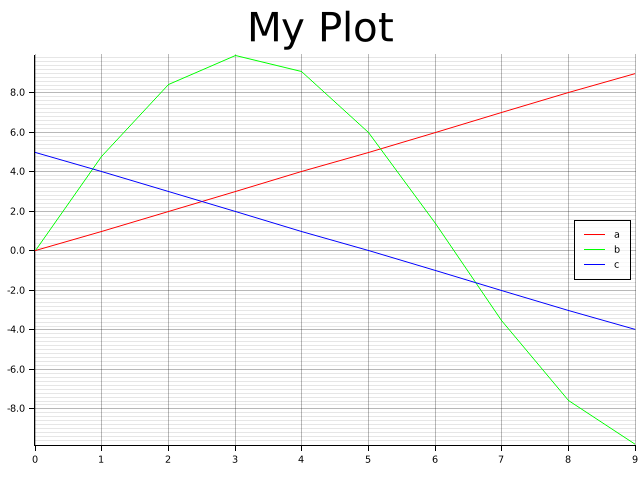
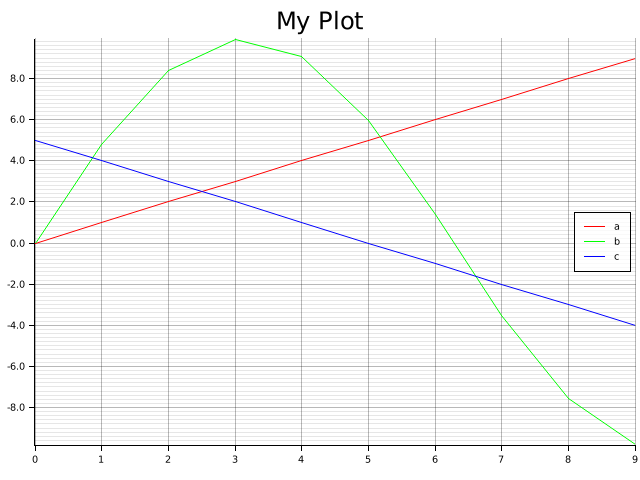
add options

diff --git a/src/lib.rs b/src/lib.rs
@@ -1,45 +1,66 @@
+//! This crate provides a convenient macro to quickly plot variables.
+
+#[deny(unsafe_code)]
+
 /// This macro is used to quickly generate plots for a list of variables.
 /// All types that implement `num_traits::cast::ToPrimitive` can be plotted.
-/// 
+///
 /// The macro takes a list of variables.
-/// 
+///
 /// ```rust
 /// debug_plotter::plot(a, b, c);
 /// ```
-/// 
-/// Optionally, you can provide a name for the plot.
+///
+/// Optionally, you can provide a caption and other options for the plot
+/// after a semicolon.
 /// If no name is provided, the name defaults to the file
 /// and the line number of where the macro was called.
-/// 
+///
 /// ```rust
-/// debug_plotter::plot("Plot Name"; a, b, c);
+/// debug_plotter::plot(a, b, c; caption = "My Caption");
 /// ```
+/// 
+/// The following table lists all available options.
+/// 
+/// |Identifier|Example Value|Description|
+/// |---|---|---|
+/// |`caption`|`"caption"`|Sets the caption of the plot.|
+/// |`size`|`(400, 300)`|Sets the size of the resulting image.|
+/// |`x_desc`|`"x description"`|Sets the description of the x axis.|
+/// |`y_desc`|`"y description"`|Sets the description of the y axis.|
 /// 
 /// When running in release mode, no plots are generated.
 /// To disable compilation of dependencies in release mode,
 /// pass `--no-default-features` to this crate.
 #[macro_export]
 macro_rules! plot {
-    ($($name:expr;)? $($variable:ident),*) => {
+    ( $($variable:ident),* $(,)? $( ; $($key:ident = $value:expr),* $(,)? )?) => {
         #[cfg(debug_assertions)]
         #[cfg(feature = "debug")]
         {
             use once_cell::unsync::Lazy;
             use std::cell::RefCell;
-            use $crate::Plottable;
+            use $crate::{Plottable, Plot, Options};
 
             thread_local! {
-                static PLOT: Lazy<RefCell<$crate::Plot>> = Lazy::new(|| {
-                    let mut name: Option<String> = None;
-                    $(
-                        name = Some(format!("{}", $name));
-                    )?
-                    RefCell::new($crate::Plot::new([$(stringify!($variable)),*], (file!(), line!()), name))
+                static PLOT: Lazy<RefCell<Plot>> = Lazy::new(|| {
+                    let options = Options {
+                        $($(
+                            $key: Some($value.into()),
+                        )*)?
+                        ..Default::default()
+                    };
+
+                    RefCell::new(Plot::new(
+                        [$(stringify!($variable)),*],
+                        (file!(), line!()),
+                        options
+                    ))
                 });
             }
             PLOT.with(|plot| {
                 plot.borrow_mut().insert([$($variable.to_plot_type()),*]);
-            })
+            });
         }
     };
 }
@@ -52,7 +73,7 @@ mod debug {
     use num_traits::cast::ToPrimitive;
     use plotters::prelude::*;
 
-    pub type PlotType = f64;
+    type PlotType = f64;
 
     pub trait Plottable {
         fn to_plot_type(self) -> PlotType;
@@ -74,20 +95,20 @@ mod debug {
         values: Vec<Vec<PlotType>>,
         names: Vec<Name>,
         location: Location,
-        name: Option<String>,
+        options: Options,
     }
 
     impl Plot {
         pub fn new<const N: usize>(
             names: [&'static str; N],
             location: Location,
-            name: Option<String>,
+            options: Options,
         ) -> Plot {
             Plot {
                 values: vec![Vec::new(); N],
                 names: names.to_vec(),
                 location,
-                name,
+                options,
             }
         }
 
@@ -129,23 +150,38 @@ mod debug {
         // Generates and saves the plot as PNG.
         fn plot(&self) -> Result<(), Box<dyn std::error::Error>> {
             let default_caption = &format!("{}:{}", self.location.0, self.location.1);
-            let caption = self.name.as_ref().unwrap_or(default_caption);
+            let caption = self.options.caption.as_ref().unwrap_or(default_caption);
             let path = format!("plots/{}.png", caption.replace("/", "-").replace(" ", "_"));
             let path = std::path::Path::new(&path);
             println!("Saving plot \"{}\" to {:?}", caption, path);
             std::fs::create_dir_all(&path.parent().unwrap()).unwrap();
 
-            let root = BitMapBackend::new(&path, (640, 480)).into_drawing_area();
+            let root = BitMapBackend::new(&path, self.options.size.unwrap_or((640, 480)))
+                .into_drawing_area();
             root.fill(&WHITE)?;
 
             let mut chart = ChartBuilder::on(&root)
-                .caption(caption, ("sans-serif", 50).into_font())
+                .caption(caption, 30)
                 .margin(5)
                 .x_label_area_size(30)
-                .y_label_area_size(30)
+                .y_label_area_size(30 +
+                    if self.options.y_desc.is_some() {
+                        self.y_max().to_string().len()
+                            .max(self.y_min().to_string().len()) as i32 * 7
+                    } else {
+                        0
+                    }
+                )
                 .build_cartesian_2d(self.x_min()..self.x_max(), self.y_min()..self.y_max())?;
 
-            chart.configure_mesh().draw()?;
+            let mut mesh = chart.configure_mesh();
+            if let Some(x_desc) = &self.options.x_desc {
+                mesh.x_desc(x_desc);
+            }
+            if let Some(y_desc) = &self.options.y_desc {
+                mesh.y_desc(y_desc);
+            }
+            mesh.draw()?;
 
             for (i, (&name, values)) in self.names.iter().zip(self.values.iter()).enumerate() {
                 let color = HSLColor(i as f64 / self.names.len() as f64, 1.0, 0.5);
@@ -174,5 +210,13 @@ mod debug {
         fn drop(&mut self) {
             self.plot().unwrap()
         }
+    }
+
+    #[derive(Default)]
+    pub struct Options {
+        pub caption: Option<String>,
+        pub size: Option<(u32, u32)>,
+        pub x_desc: Option<String>,
+        pub y_desc: Option<String>,
     }
 }

diff --git a/examples/multiple-plots.rs b/examples/multiple-plots.rs
@@ -1,0 +1,38 @@
+use std::cell::RefCell;
+
+use plotters::prelude::*;
+
+fn main() {
+    {
+        thread_local! {
+            static TEST: RefCell<Test> = RefCell::new(Test());
+        }
+        TEST.with(|_| {});
+    }
+    {
+        thread_local! {
+            static TEST: RefCell<Test> = RefCell::new(Test());
+        }
+        TEST.with(|_| {});
+    }
+    
+}
+
+struct Test();
+
+impl Drop for Test {
+    fn drop(&mut self) {
+        let root = BitMapBackend::new("test.png", (100, 100))
+                .into_drawing_area();
+
+        let mut chart = ChartBuilder::on(&root)
+            .caption("Test", 30)
+            .build_cartesian_2d(0..0, 0..0)
+            .unwrap();
+
+        chart
+            .configure_series_labels()
+            .draw()
+            .unwrap();
+    }
+}

diff --git a/examples/options.rs b/examples/options.rs
@@ -1,0 +1,11 @@
+fn main() {
+    for i in 0usize..1000usize {
+        debug_plotter::plot!(
+            i;
+            caption = "Options Testing",
+            size = (400, 300),
+            x_desc = "X Description",
+            y_desc = "Y Description",
+        );
+    }
+}

diff --git a/examples/basic.rs b/examples/basic.rs
@@ -2,6 +2,7 @@ fn main() {
     for a in 0usize..10usize {
         let b = (a as f32 / 2.0).sin() * 10.0;
         let c = 5 - (a as i32);
-        debug_plotter::plot!("My Plot"; a, b, c);
+
+        debug_plotter::plot!(a, b, c; caption = "My Plot");
     }
 }

diff --git a/README.md b/README.md
@@ -5,8 +5,8 @@ This crate provides a convenient macro to quickly plot variables.
 ## Example
 
 In this example, we quickly want to plot the variables `a`, `b`, and `c`.
-Optionally, we can name the plot. Plots are saved as a PNG in the
-`.plots` that is created in the working directory.
+Optionally, we can name the plot. Plots are saved as a PNG image in the
+`plots` directory that is created in the working directory.
 
 ```rust
 fn main() {
